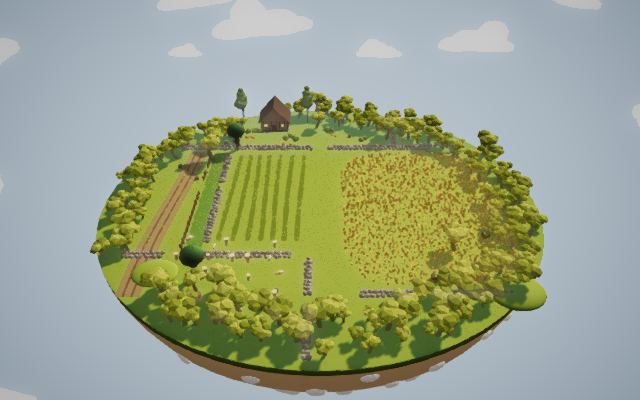
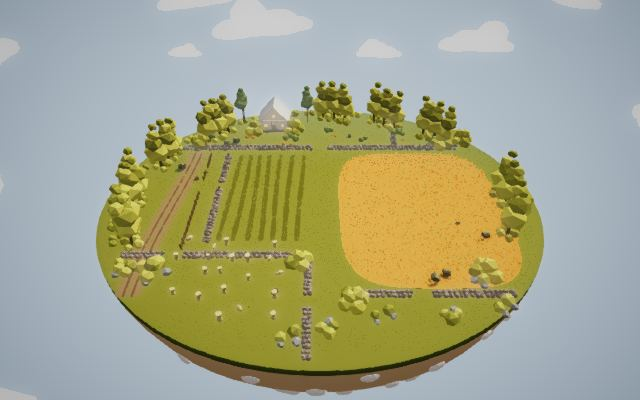
loop(566): maps_1+maps_2 10/10 gaps approved

Changed region(s): [[0.125, 0.18, 0.875, 0.93], [0.4375, 0.6, 0.5, 0.69], [0.375, 0.48, 0.4062, 0.51]]

diff --git a/loop/STATE.md b/loop/STATE.md
@@ -1,5 +1,5 @@
 # Loop state (v10: maps then stages; two batch audits merged; up to 9 structural/rebuild gaps + 1 eligible polish; fresh CONFIRM before done)
-Iteration: 565   Batch: maps_1+maps_2   Consecutive empty: 0   Done: 3/99   Parked: 0
+Iteration: 566   Batch: maps_1+maps_2   Consecutive empty: 0   Done: 4/99   Parked: 0
 Batches, in order: maps_1, maps_2, maps_3, maps_4, stages_introduction, stages_adventure, stages_challenge, stages_dynasty, stages_renaissance, stages_pirate, stages_spooky, stages_simulation, stages_wild_west, stages_legacy, stages_fantasy_good, stages_fantasy_evil
 <!-- Item file template, loop/items/<id>.md (map: map.<id>; stage: <campaign>.<level>):
 # <id>
@@ -16,7 +16,7 @@ c ...
 Marks below: one per criterion a b c (+ pass, - fail, ? unscored); map a look, b layout, c play; stage a army, b formation, c battle. -->
 
 ## Scoreboard (a b c as + pass, - fail, ? unscored; status q queued, o open, D done, p parked)
-maps_1: tribal_1 +++ D | tribal_2 +++ D | tribal_sandbox +-+ o | farmer_1 +++ D | farmer_2 -++ o (a plateau) | farmer_snow -++ o
+maps_1: tribal_1 +++ D | tribal_2 +++ D | tribal_sandbox --+ o | farmer_1 +++ D | farmer_2 +++ D | farmer_snow -++ o
 maps_2: medieval_1 --+ o | medieval_2 --+ o | ancient_1 --+ o | ancient_2 --+ o | ancient_sandbox --+ o | viking --+ o | viking_sandbox --+ o
 maps_3: dynasty ??? q | renaissance ??? q | pirate ??? q | spooky_1 ??? q | spooky_2 ??? q | wild_west ??? q | legacy ??? q
 maps_4: fantasy_good ??? q | fantasy_evil ??? q | simulation ??? q | bridge ??? q | hill ??? q | corridor ??? q | defend_the_castle ??? q | high_ground ??? q | low_ground ??? q
@@ -33,32 +33,56 @@ stages_legacy: siege ??? q | a_tank ??? q | the_war ??? q | thor_s_battle ??? q
 stages_fantasy_good: colossal_spike ??? q | royal_archers ??? q | clash_of_warriors ??? q | chaotic_cavalry ??? q | vicious_terror ??? q | fortified_formation ??? q
 stages_fantasy_evil: encircling_tribe ??? q | raze_the_homestead ??? q | farmer_uprising_evil ??? q | storm_the_fortress ??? q | blasted_skirmish ??? q | dismantle_the_spears ??? q
 
-## Focus (iter 565: maps_1+maps_2, 1 [R] + 7 [S]; BASE 93c67eaf)
-- [S] map.viking_sandbox.b blocker 4 base field dressing + pits removed (6278850c) APPROVE, struck 4
-- [S] map.ancient_sandbox.b blocker 5 base field dressing + pits removed (b149e156) APPROVE, struck 5
-- [S] map.tribal_2.a blocker 3 two-tier ledge wall, ledge birches (e503d93f) APPROVE, struck 3 (PASS; CONFIRM passed -> D)
-- [S] map.farmer_snow.b blocker 2 mill onto the +x bank, wheel in the ice (ca008f0d) APPROVE, struck 2 (b PASS)
-- [S] map.viking.a blocker 1 own builder: ice lake + cracks, snow banks (4d8db327) APPROVE, struck a1, b1
-- [S] map.medieval_2.b blocker 1 own builder: front pond, paths, lagoons/plank out (61b2ec07+4e086afe) APPROVE, struck 1, 2, 3
-- [S] map.ancient_2.a blocker 2 own builder: temple complex (b364ac2a) APPROVE, struck a2, b2
-- [R] map.farmer_2.a blockers 1-4 rim masses, pale cottage, straw wheat, alley (b84ba5a1) APPROVE, struck 1, 2, 4 (CONFIRM passed a; critic kept 3)
-- Skipped: tribal_sandbox.b1 (evidence commit first), medieval_1, ancient_1 (starve at 567: take them first in 566)
-- 8/8, 14 struck
+## Focus (iter 566: maps_1+maps_2, 9 [S] + 1 [R]; BASE 21a8a59d)
+- Evidence: Tribal Sandbox camera limit and framing (21a8a59d+9704ba46), re-AUDIT x2 reopened a and b.
+- [S] map.medieval_1.b blocker 2 split plateaus, inlet and stone bridge (70777289+20b7df96) APPROVE, struck a2, b1, b2, b3
+- [S] map.ancient_1.b blocker 1 rectangular paved slab, two streets and central arch (29f15c87+fb977c70) APPROVE, struck a1, b1, b3, b5
+- [S] map.tribal_sandbox.b blocker 1 expand island, placement and collision footprint 1.45x (49d2750c) APPROVE, struck b1
+- [R] map.farmer_2.a blocker 3 swept wheat, separated warm heads and stems (1e5f5680+e6c89ac4) APPROVE, struck a3 (a PASS; CONFIRM -> D)
+- [S] map.farmer_snow.a blocker 1 open snow rim with a few corner pines (ae2ad902) APPROVE, struck a1
+- [S] map.medieval_2.a blocker 1 crenellated castle facade, ivy and arched gate (373e0c1c+c3ddcf73) APPROVE, struck a1
+- [S] map.ancient_2.b blocker 5 clear inherited field obstacles and pits (13fa8e2a) APPROVE, struck b5
+- [S] map.viking.b blocker 4 clear inherited obstacles and pits off the lake (1e70afc3) APPROVE, struck b4
+- [S] map.ancient_sandbox.a blocker 1 green meadow with brown clay paths (9358dcce) APPROVE, struck a1
+- [S] map.viking_sandbox.a blocker 4 cyan sky and airborne snow (b2df5dd6) APPROVE, struck a4
+- 10/10, 16 struck
 
 ## Last verdicts (critic header lines verbatim)
-GAP: [S] map.viking_sandbox (6278850c) VERDICT: APPROVE CRITERION: map.viking_sandbox.b FAIL
-GAP: [S] map.ancient_sandbox (b149e156) VERDICT: APPROVE CRITERION: map.ancient_sandbox.b FAIL
-GAP: [S] map.tribal_2 (e503d93f) VERDICT: APPROVE CRITERION: map.tribal_2.a PASS
-GAP: [S] map.farmer_snow (ca008f0d) VERDICT: APPROVE CRITERION: map.farmer_snow.b PASS
-GAP: [S] map.viking (4d8db327) VERDICT: APPROVE CRITERION: map.viking.a FAIL
-GAP: [S] map.medieval_2 (61b2ec07 + 4e086afe) VERDICT: APPROVE CRITERION: map.medieval_2.b FAIL
-GAP: [S] map.ancient_2 (b364ac2a) VERDICT: APPROVE CRITERION: map.ancient_2.a FAIL
-GAP: [R] map.farmer_2 (b84ba5a1) VERDICT: APPROVE CRITERION: map.farmer_2.a FAIL plateau
-REGRESSIONS: none
+GAP: [S] map.medieval_1 (70777289 + 20b7df96)
+VERDICT: APPROVE
+CRITERION: map.medieval_1.b FAIL (previous: FAIL)
+GAP: [S] map.ancient_1 (29f15c87 + fb977c70)
+VERDICT: APPROVE
+CRITERION: map.ancient_1.b FAIL (previous: FAIL)
+GAP: [S] map.tribal_sandbox (49d2750c)
+VERDICT: APPROVE
+CRITERION: map.tribal_sandbox.b FAIL (previous: FAIL)
+GAP: [R] map.farmer_2 (1e5f5680 + e6c89ac4)
+VERDICT: APPROVE
+CRITERION: map.farmer_2.a PASS (previous: FAIL)
+GAP: [S] map.farmer_snow (ae2ad902)
+VERDICT: APPROVE
+CRITERION: map.farmer_snow.a FAIL (previous: FAIL)
+GAP: [S] map.medieval_2 (373e0c1c + c3ddcf73)
+VERDICT: APPROVE
+CRITERION: map.medieval_2.a FAIL (previous: FAIL)
+GAP: [S] map.ancient_2 (13fa8e2a)
+VERDICT: APPROVE
+CRITERION: map.ancient_2.b FAIL (previous: FAIL)
+GAP: [S] map.viking (1e70afc3)
+VERDICT: APPROVE
+CRITERION: map.viking.b FAIL (previous: FAIL)
+GAP: [S] map.ancient_sandbox (9358dcce)
+VERDICT: APPROVE
+CRITERION: map.ancient_sandbox.a FAIL (previous: FAIL)
+GAP: [S] map.viking_sandbox (b2df5dd6)
+VERDICT: APPROVE
+CRITERION: map.viking_sandbox.a FAIL (previous: FAIL)
+REGRESSIONS: none. Judge passes c for all 10 maps and a/c for all 26 stages.
 
 ## Notes for next iteration (max 5 lines)
-- Starving at 567: medieval_1 (a, b) and ancient_1 (a, b) have no attempt since their 562 audit: give them own builders first in 566 (base campaign.introduction / campaign.challenge; never edit bases).
-- [R] slot: farmer_2.a, one blocker left (wheat colour): lower the self-light (<= 0.15) at a warm gold-orange; CONFIRM 565 already passed a.
-- tribal_sandbox.b1 needs an evidence commit first: cameraController upperRadiusLimit 120 clamps the top (135) and island (200) poses; lift it in capture-world.mjs for that map's shots only.
-- The challenge-base junk clear (wallStone, boulder, hayBale, hill, stump, pits) is ranked for viking.b4 and ancient_2.b5: copy viking_sandbox's clearFieldDressing.
+- Medieval 1 and Ancient 1 had their first layout attempts. Prioritize their appearance gaps (stepped cliffs and white city frontage).
+- Tribal Sandbox's enlarged footprint cleared b1. Re-audit a1/a2 and b2 remain on the rock stacks, crowns and regular back wall.
+- Farmer 2 confirmed and map-picker thumbnail refreshed. Both map batches still have open items.
+- 566 final capture: 118 shots, zero page errors, 10 map c and 52 stage a/c checks passed. Local commits ready; automatic approval review blocked the push to origin/main because external publication authorization and destination trust were unverified.
 - Critic 562 aside still open: stage_fantasy_evil.raze_the_homestead_field.png pale grey rectangle behind the island; check at the maps_1 checkpoint.

diff --git a/loop/items/map.medieval_1.md b/loop/items/map.medieval_1.md
@@ -1,14 +1,17 @@
 # map.medieval_1
 Status: open   Audited: 562 (AUDIT x2)   Done: -
 ## Verdicts
-a FAIL (0 since 562): 1. Island underside in map_medieval_1_island is a navy slab hung with black stalactites — TABS: grey-lilac faceted cliff columns with green ledges dropping into the sea (ref: reference/maps/meadow_medieval_1.png) 2. Sea around the island absent in map_medieval_1_island — TABS: island stands in turquoise shallow water (ref: reference/maps/meadow_medieval_1.png) 3. Ring trees in map_medieval_1_ground are uniform small dark-green crowns on pink trunks — TABS: big gnarled oaks with twisted brown trunks and lumpy pale-green crowns (ref: reference/maps/wiki/medieval_1.png) 4. Castle ruins in map_medieval_1_top are one small pinkish block at back-right — TABS: grey stone ruined walls, crenellated segments and a broken pillar-tower with orange cap along the right side (ref: reference/maps/wiki/medieval_1.png) 5. Black monolith with a ball on top in mid-field in map_medieval_1_ground — TABS: no such object; the field holds only grass and flowers (ref: reference/maps/wiki/medieval_1.png) 6. Field dressing in map_medieval_1_ground is flat yellow-olive grass — TABS: lush bushy green grass with orange flower dots (ref: reference/maps/wiki/medieval_1.png)
-b FAIL (0 since 562): 1. Island outline in map_medieval_1_top is one rounded oval — TABS: two cliff plateaus split by a water inlet (ref: reference/maps/meadow_medieval_1.png) 2. Water gorge between the halves absent in map_medieval_1_top — TABS: turquoise inlet cutting into the front of the island between forest and ruins (ref: reference/maps/wiki/medieval_1.png) 3. Bridge linking the two sides absent in map_medieval_1_top — TABS: stone bridge over the gorge (ref: card Overview) 4. Tree ring in map_medieval_1_top is symmetric on both halves — TABS: forest massed on the left half, ruins on the right (ref: card Overview) 5. Ramp down the left side to the door under the bridge absent in map_medieval_1_island — TABS: ramp to the landfall door (ref: card Unlock)
-c PASS (562 judge)
+a FAIL (566: struck 2): 1. Island underside in map_medieval_1_island is a navy slab hung with black stalactites — TABS: grey-lilac faceted cliff columns with green ledges dropping into the sea (ref: reference/maps/meadow_medieval_1.png) 3. Ring trees in map_medieval_1_ground are uniform small dark-green crowns on pink trunks — TABS: big gnarled oaks with twisted brown trunks and lumpy pale-green crowns (ref: reference/maps/wiki/medieval_1.png) 4. Castle ruins in map_medieval_1_top are one small pinkish block at back-right — TABS: grey stone ruined walls, crenellated segments and a broken pillar-tower with orange cap along the right side (ref: reference/maps/wiki/medieval_1.png) 5. Black monolith with a ball on top in mid-field in map_medieval_1_ground — TABS: no such object; the field holds only grass and flowers (ref: reference/maps/wiki/medieval_1.png) 6. Field dressing in map_medieval_1_ground is flat yellow-olive grass — TABS: lush bushy green grass with orange flower dots (ref: reference/maps/wiki/medieval_1.png)
+b FAIL (566: struck 1, 2, 3): 4. Tree ring in map_medieval_1_top is symmetric on both halves — TABS: forest massed on the left half, ruins on the right (ref: card Overview) 5. Ramp down the left side to the door under the bridge absent in map_medieval_1_island — TABS: ramp to the landfall door (ref: card Unlock)
+c PASS (566 judge)
+
 ## Ranked gaps
-1. [S] b — blocker 2: own builder tabs/medieval_1.ts (base campaign.introduction): two cliff plateaus split by a turquoise water gorge, stone bridge across it — ref: meadow_medieval_1.png — ours: map_medieval_1_top.png
+1. [S] a — blocker 1: faceted grey-lilac towers and turf shelves — ref: meadow_medieval_1.png — ours: map_medieval_1_island.png
 2. [S] a — blocker 4: grey ruined walls and a broken pillar-tower with orange cap on the right half, black monolith removed — ref: reference/stages/wild_west.laughing_knights.png
-3. [S] a — blocker 2: sea plane round the island and the front inlet under the bridge — ref: meadow_medieval_1.png
+
 ## Attempts (iter | gap | criterion | verdict)
 ## Rejected (last 4)
+566 | [S] split plateaus, inlet and stone bridge (70777289+20b7df96) | b2 | APPROVE struck a2, b1, b2, b3
+
 ## Notes (max 3 lines)
 - Stages on it: dynasty.catapults, pirate.you_won_t_make_us_walk_the_plank, spooky.turtle, wild_west.laughing_knights, fantasy_good.royal_archers.

diff --git a/loop/items/map.ancient_1.md b/loop/items/map.ancient_1.md
@@ -1,13 +1,16 @@
 # map.ancient_1
 Status: open   Audited: 562 (AUDIT x2)   Done: -
 ## Verdicts
-a FAIL (0 since 562): 1. Ground in map_ancient_1_ground is orange autumn grass — TABS: grey paved streets with white seam lines (ref: reference/maps/wiki/ancient_1.png) 2. Whitewashed houses with blue domes absent in map_ancient_1_top — TABS: flat-roof white buildings with blue domes, stairs and planters (ref: reference/maps/wiki/ancient_1.png) 3. Ring in map_ancient_1_top is autumn round trees with dark rocks — TABS: low white city wall with cypress planters (ref: reference/maps/wiki/ancient_1.png) 4. Island underside in map_ancient_1_island is a navy slab with stalactites — TABS: brown rock slab studded with pebbles (ref: reference/maps/greek_ancient_1.png) 5. Hoplite statue on its rock outcrop absent in map_ancient_1_island — TABS: giant spear-and-shield statue at the back (ref: reference/maps/greek_ancient_1.png) 6. Lighthouse absent in map_ancient_1_island — TABS: white tower at the back-left (ref: reference/maps/greek_ancient_1.png)
-b FAIL (0 since 562): 1. Island outline in map_ancient_1_top is a rounded oval — TABS: long rectangle (ref: card Overview) 2. Two narrow streets between building blocks absent in map_ancient_1_top — TABS: two streets 3-4 units wide link the sides (ref: card Overview) 3. Central archway absent in map_ancient_1_top — TABS: archway in the middle of the map (ref: reference/maps/greek_ancient_1.png) 4. Water bay at the statue corner absent in map_ancient_1_top — TABS: blue inlet with rocks at the back-left (ref: reference/maps/wiki/ancient_1.png) 5. Black slabs and a black monolith in the open field in map_ancient_1_battle — TABS: field space is streets between buildings (ref: reference/stages/dynasty.zeus_and_other_folks.png)
-c PASS (562 judge)
+a FAIL (566: struck 1): 2. Whitewashed houses with blue domes absent in map_ancient_1_top — TABS: flat-roof white buildings with blue domes, stairs and planters (ref: reference/maps/wiki/ancient_1.png) 3. Ring in map_ancient_1_top is autumn round trees with dark rocks — TABS: low white city wall with cypress planters (ref: reference/maps/wiki/ancient_1.png) 4. Island underside in map_ancient_1_island is a navy slab with stalactites — TABS: brown rock slab studded with pebbles (ref: reference/maps/greek_ancient_1.png) 5. Hoplite statue on its rock outcrop absent in map_ancient_1_island — TABS: giant spear-and-shield statue at the back (ref: reference/maps/greek_ancient_1.png) 6. Lighthouse absent in map_ancient_1_island — TABS: white tower at the back-left (ref: reference/maps/greek_ancient_1.png)
+b FAIL (566: struck 1, 3, 5): 2. Two narrow streets between building blocks absent in map_ancient_1_top — TABS: two streets 3-4 units wide link the sides (ref: card Overview) 4. Water bay at the statue corner absent in map_ancient_1_top — TABS: blue inlet with rocks at the back-left (ref: reference/maps/wiki/ancient_1.png)
+c PASS (566 judge)
+
 ## Ranked gaps
-1. [S] b — blocker 1: own builder tabs/ancient_1.ts (base campaign.challenge, shared by 5 maps: never edit it): rectangular grey-paved slab, two narrow streets between building blocks, central archway — ref: wiki/ancient_1.png
-2. [S] a — blocker 2: whitewashed flat-roof houses with blue domes and rooftop stairs on the street blocks (keep the stage armies' spots clear)
+1. [S] a — blocker 2: whitewashed houses, blue domes and rooftop stairs on the marked lots — ref: wiki/ancient_1.png — ours: map_ancient_1_top.png
+
 ## Attempts (iter | gap | criterion | verdict)
 ## Rejected (last 4)
+566 | [S] rectangular paved slab, two streets and central arch (29f15c87+fb977c70) | b1 | APPROVE struck a1, b1, b3, b5
+
 ## Notes (max 3 lines)
 - Stages on it: introduction.basic_formation, adventure.final_destination_wheelbarrow, dynasty.zeus_and_other_folks, fantasy_evil.blasted_skirmish. Audit 2 also: sky beige haze (want saturated blue).

diff --git a/loop/LEDGER.md b/loop/LEDGER.md
@@ -3,15 +3,6 @@
 Rows: `file:identifier | value | last iter | verdict | earlier values`. P: no approved reversal within 20 iterations; two failed polish attempts spend a row. S/R replace mechanisms. The unit phase's ledger is `loop/archive/v4/LEDGER.md`.
 
 ## Structural attempts (iter | sha | item.criterion | verdict)
-560 | cb6fa15d | map.tribal_1.a | approved
-560 | 57c3a0af | map.tribal_1.b | approved
-560 | f66ba3a2+8c0b9641+8a89fc24 | map.tribal_1.b | approved
-560 | 8105869f | map.farmer_1.a | approved
-560 | 22e0ba71+ba8232f8 | map.farmer_1.b | approved
-560 | d6119113 | map.farmer_1.a | approved
-560 | 90fc230f | map.farmer_2.a | approved
-560 | 7713f41b | map.farmer_2.b | approved
-560 | 674aaca3+5a6c6bb4 | map.farmer_2.a | approved
 561 | 037cd776+4b5e0fae | map.farmer_2.a | approved
 561 | b382569f+ceafd4a0+0792aa93 | map.farmer_2.a | approved
 561 | 5f83a159 | map.farmer_1.a | approved
@@ -54,6 +45,17 @@ Rows: `file:identifier | value | last iter | verdict | earlier values`. P: no ap
 565 | b364ac2a | map.ancient_2.a | approved
 565 | b84ba5a1 [R] | map.farmer_2.a | approved (CONFIRM passed a; critic kept blocker 3)
 
+566 | 70777289+20b7df96 | map.medieval_1.b | approved
+566 | 29f15c87+fb977c70 | map.ancient_1.b | approved
+566 | 49d2750c | map.tribal_sandbox.b | approved
+566 | 1e5f5680+e6c89ac4 [R] | map.farmer_2.a | approved (CONFIRM passed)
+566 | ae2ad902 | map.farmer_snow.a | approved
+566 | 373e0c1c+c3ddcf73 | map.medieval_2.a | approved
+566 | 13fa8e2a | map.ancient_2.b | approved
+566 | 1e70afc3 | map.viking.b | approved
+566 | 9358dcce | map.ancient_sandbox.a | approved
+566 | b2df5dd6 | map.viking_sandbox.a | approved
+
 ## Tuned values
 web/src/map/tabs/farmer_2.ts:wheatField stalk height, step | 0.65-0.8 m, 0.75 m | 564 | approved | 0.5-0.7 m, 0.9 m; 1.0-1.3 m
 web/src/map/tabs/farmer_2.ts:SHEAVES z range, scale | z -36..-16, x1.5 | 558 | approved | z -44..-23, x1
@@ -70,6 +72,8 @@ web/src/map/tabs/farmer_1.ts:farmer1BankRock colour | (0.6,0.53,0.44) emissive (
 web/src/map/tabs/farmer_2.ts:farmer2UnderEarth colour | (0.5,0.4,0.27) self-lit 1.0 | 561 | approved | (0.44,0.36,0.25) self-lit 0.45
 web/src/map/tabs/farmer_2.ts:farmer2OliveLeaf / Dark | (0.62,0.56,0.19) x0.6, (0.5,0.46,0.15) x0.55 (oliveGrove) | 563 | approved | (0.5,0.47,0.16) x0.6, (0.4,0.39,0.12) x0.55; (0.45,0.42,0.14) x0.25
 web/src/map/tabs/farmer_2.ts:MEADOW | (0.6,0.54,0.18) | 563 | approved | (0.62,0.64,0.2)
-web/src/map/tabs/farmer_2.ts:farmer2Wheat colour | (1,0.8,0.3) self-lit 0.35 + straw floor (0.92,0.72,0.3) x0.3 | 565 | approved (critic: cream from above, khaki at ground) | (0.9,0.66,0.2) self-lit 0.3 (CONFIRM: dull ochre); (0.95,0.8,0.32) self-lit 0.4 (CONFIRM: too pale); (0.78,0.55,0.16) emissive (0.26,0.17,0.04)
+web/src/map/tabs/farmer_2.ts:farmer2Wheat colour | unlit heads (1.1,0.67,0.23), stems (0.88,0.51,0.14), out of glow; floor (0.94,0.58,0.17) x0.145 | 566 | approved | (1,0.8,0.3) self-lit 0.35 + straw floor (0.92,0.72,0.3) x0.3; (0.9,0.66,0.2) self-lit 0.3 (CONFIRM: dull ochre); (0.95,0.8,0.32) self-lit 0.4 (CONFIRM: too pale); (0.78,0.55,0.16) emissive (0.26,0.17,0.04)
 web/src/map/tabs/farmer_2.ts:farmer2HousePlank / Frame / Roof | (0.88,0.74,0.52) x0.32, (0.56,0.43,0.28) x0.25, (0.74,0.65,0.5) x0.3 | 565 | approved | (0.6,0.44,0.26) x0.18, (0.26,0.15,0.08) x0.15, (0.36,0.23,0.13) x0.15
 web/src/map/tabs/tribal_2.ts:tribal2Mountain colour | (0.6,0.5,0.4) emissive (0.1,0.075,0.05) | 564 | approved | (0.6,0.54,0.52) emissive (0.08,0.06,0.05)
+web/src/map/tabs/tribal_sandbox.ts:spread | 1.45x horizontal geometry/nav/collisions | 566 | approved | 1x
+web/src/map/tabs/viking_sandbox.ts:clearColor and fogColor | cyan (0.52,0.78,0.83) and (0.62,0.82,0.86) | 566 | approved | inherited beige (0.74,0.68,0.52)

diff --git a/loop/items/map.farmer_snow.md b/loop/items/map.farmer_snow.md
@@ -1,19 +1,22 @@
 # map.farmer_snow
 Status: open   Audited: 555 (AUDIT x2), 563 (CONFIRM: passed none; failed a, b)   Done: -
 ## Verdicts
-a FAIL (564: struck 6): 1. A closed ring of pale fog-washed broadleaf trees round the whole rim in map_farmer_snow_top.png — TABS: open snow edge with only a few tall snow-capped trees at the corners (ref: reference/maps/wiki/farmer_snow.png) 2. Watermill shown as two brown gabled barns with string lights in map_farmer_snow_island.png — TABS: tall dark-blue timber mill towers with a water wheel and a balcony on one bank (ref: reference/maps/wiki/farmer_snow.png) 3. Large snow-capped boulder in the front field missing in map_farmer_snow_top.png — TABS: a big faceted rock with snow cap on the field's front-right (ref: reference/maps/wiki/farmer_snow.png) 4. Snow-covered crop furrows by the bridge missing in map_farmer_snow_top.png — TABS: rows of snowy furrow ridges beside the bridge on the field side (ref: reference/maps/wiki/farmer_snow.png) 5. Snowy wooden carts and wagons missing in map_farmer_snow_ground.png — TABS: two snow-laden carts and log piles on the near field (ref: reference/maps/wiki/farmer_snow.png)
+a FAIL (566: struck 1): 2. Watermill shown as two brown gabled barns with string lights in map_farmer_snow_island.png — TABS: tall dark-blue timber mill towers with a water wheel and a balcony on one bank (ref: reference/maps/wiki/farmer_snow.png) 3. Large snow-capped boulder in the front field missing in map_farmer_snow_top.png — TABS: a big faceted rock with snow cap on the field's front-right (ref: reference/maps/wiki/farmer_snow.png) 4. Snow-covered crop furrows by the bridge missing in map_farmer_snow_top.png — TABS: rows of snowy furrow ridges beside the bridge on the field side (ref: reference/maps/wiki/farmer_snow.png) 5. Snowy wooden carts and wagons missing in map_farmer_snow_ground.png — TABS: two snow-laden carts and log piles on the near field (ref: reference/maps/wiki/farmer_snow.png)
 b PASS (565: struck 2; critic only, CONFIRM it when the item would be done)
-c PASS (565 judge)
+c PASS (566 judge)
+
 ## Ranked gaps
-1. [S] a — blocker 1: ring trees hidden all round the rim but three or four tall snowy trees at the corners (the round snow edge left open)
-2. [S] a — blocker 2: mill halves rebuilt as tall dark-blue timber towers with snowy plank roofs, a balcony, the wheel kept (MILL_HALVES on the +x bank)
-3. [S] a — blocker 3: big faceted snow-capped boulder on the front-right field
+1. [S] a — blocker 2: two dark-blue timber towers, balcony and visible wheel — ref: wiki/farmer_snow.png — ours: map_farmer_snow_island.png
+2. [S] a — blocker 3: big faceted snow-capped boulder on the front-right field
+
 ## Attempts (iter | gap | criterion | verdict)
 555-559 | river, snow cover, bridge, night sky, grove, navy bowl, stones | a, b | 6 APPROVE, struck a1, a2, a6, b1, b2, b4, b6
 561-562 | [S] houses + mill, round outline, bulb strings, dark mill (cb41584c, e9d95cfa, d7b02859, 23817396+452f35d3) | a, b | 4 APPROVE struck b5, b3, a3, a4
 563 | [S] snow hills at their radius (e6641d5a); dense pine grove (5ac61480) | b6, a5 | 2 APPROVE struck b6, a5
 564 | [S] base slab + totem removed (79991c9b); pine grove to the houses' bank (140782a1) | a6, b1 | 2 APPROVE struck a6, b1
 565 | [S] mill off the river onto the +x bank, halves in a row along the ice, wheel in the ice (ca008f0d) | b2 | APPROVE struck 2 (b PASS)
+566 | [S] open snow rim with a few corner pines (ae2ad902) | a1 | APPROVE struck a1
+
 ## Rejected (last 4)
 ## Notes (max 3 lines)
 - No stages. Builder: ice course, bridge, houses (-26,36),(-11,39), mill halves at x ~8 z -41 / -28.2 with the wheel at z -34.6, lights, pineGrove.

diff --git a/loop/items/map.tribal_sandbox.md b/loop/items/map.tribal_sandbox.md
@@ -1,18 +1,24 @@
 # map.tribal_sandbox
-Status: open   Audited: 555 (AUDIT x2)   Done: -
+Status: open   Audited: 555 (AUDIT x2), 566 (camera re-AUDIT x2)   Done: -
 ## Verdicts
-a PASS (562: struck 5)
-b FAIL (563: struck 2): 1. field size in map_tribal_sandbox_top.png — TABS: a large map, much bigger than Tribal 1/2, with an open centre for large armies; ours is the same small oval as tribal_1 (ref: loop/cards/maps/tribal_sandbox.md Overview; reference/maps/autumn_tribal_sandbox.png)
-c PASS (563 judge)
+a FAIL (0 since 566): 1. Flat-topped grey stacks at centre and right in map_tribal_sandbox_ground.png — TABS: broad, irregular fractured boulder masses and tilted slabs beneath the trees (ref: reference/maps/wiki/tribal_sandbox.png) 2. Small dark faceted crowns on tall bare stalks above the central rock groups in map_tribal_sandbox_ground.png — TABS: large pumpkin-orange, pale yellow and warm red crowns overlapping the rock shelves at several heights (ref: reference/maps/autumn_tribal_sandbox.png)
+b FAIL (566: struck 1): 2. Back rim in map_tribal_sandbox_top.png forms a nearly continuous regular stone wall — TABS: broken, staggered rock masses with gaps occupied by groves (ref: reference/maps/wiki/tribal_sandbox.png)
+c PASS (566 judge)
+
 ## Ranked gaps
-1. [S] b — blocker 1: grow the island rim, field and zones ~1.4-1.5x and move the ring, nooks, mesas and cliffs out with it. Evidence first: the top pose (radius 135, beta 0.72) and island pose (clamped 120) frame about +-70 m, and nav bounds come from the zones; re-aim the poses in an evidence commit before the geometry
+1. [S] b — blocker 2: staggered cliff masses with tree-filled openings — ref: wiki/tribal_sandbox.png — ours: map_tribal_sandbox_top.png
+2. [S] a — blocker 1: replace the flat rock stacks with staggered faceted boulders and tilted slabs — ref: wiki/tribal_sandbox.png — ours: map_tribal_sandbox_ground.png
+3. [S] a — blocker 2: cluster orange, red and yellow crowns at several heights over the shelves — ref: autumn_tribal_sandbox.png — ours: map_tribal_sandbox_ground.png
+
 ## Attempts (iter | gap | criterion | verdict)
 555-559 | a: pillar/outcrop/heap, rim cliffs, birch ring, open sky + spires; field walls, boulders | a, b | 6 APPROVE, struck a1-a4, a6, b4
 558-559 | [S]+[P] horseshoe boulder nooks, then 10 m inward (5e406f86, 1f72d189) | b2 | 2 APPROVE (stands)
 561-562 | [S]+[P] red shrubs, then x2.5; rim mesas (6142c5b2, 61d4fb96, 22bf0f3a) | a5, b3 | 3 APPROVE struck a5, b3
 563 | [S] nooks rebuilt as stacked flat-topped cliff blocks, birches on their tops (74f9cb20) | b2 | APPROVE struck 2
+566 | [S] expand island, placement and collision footprint 1.45x (49d2750c) | b1 | APPROVE struck b1
+
 ## Rejected (last 4)
 ## Notes (max 3 lines)
-- No stages fought on it. Critic 563: birches on the blocks are bare-trunk lollipops; blocks 4.5-7 m are small next to TABS's 10-15 m masses.
-- 563 skipped blocker 1: a 1.4x scale puts the rim at ~76 m, past the capture frame (see Ranked gaps).
-- a PASS by the critic only: CONFIRM it when the item would be done. Critic 562: mesas are clean hexagonal prisms.
+- No stages fought on it. World geometry, obstacles and placement expand 1.45x in the ground plane.
+- Overview radii are 218 (island) and 176 (top), on this map only; map c passed on expansion.
+- Re-audit reopened a for the stone stacks and sparse crowns and identified the regular back wall as b2.

diff --git a/loop/items/map.ancient_sandbox.md b/loop/items/map.ancient_sandbox.md
@@ -1,18 +1,22 @@
 # map.ancient_sandbox
 Status: open   Audited: 562 (AUDIT x2)   Done: -
 ## Verdicts
-a FAIL (564: struck 5): 1. Ground in map_ancient_sandbox_ground is orange autumn grass — TABS: green meadow with brown dirt paths (ref: reference/maps/wiki/ancient_sandbox.png) 2. Edge dressing in map_ancient_sandbox_top is autumn trees — TABS: cypresses and white Greek houses with blue-tile walls (ref: reference/maps/wiki/ancient_sandbox.png) 3. Spiral mountain absent in map_ancient_sandbox_island — TABS: tall spiral rock tower at the back (ref: reference/maps/greek_ancient_sandbox.png) 6. Ruins absent in map_ancient_sandbox_top — TABS: fallen columns and ruined arches (ref: reference/maps/wiki/ancient_sandbox.png)
+a FAIL (566: struck 1): 2. Edge dressing in map_ancient_sandbox_top is autumn trees — TABS: cypresses and white Greek houses with blue-tile walls (ref: reference/maps/wiki/ancient_sandbox.png) 3. Spiral mountain absent in map_ancient_sandbox_island — TABS: tall spiral rock tower at the back (ref: reference/maps/greek_ancient_sandbox.png) 6. Ruins absent in map_ancient_sandbox_top — TABS: fallen columns and ruined arches (ref: reference/maps/wiki/ancient_sandbox.png)
 b FAIL (565: struck 5): 1. Island outline in map_ancient_sandbox_top is a small rounded rectangle — TABS: very large irregular island with cliff terraces (ref: reference/maps/greek_ancient_sandbox.png) 2. Raised terraces with temples at the back edge absent in map_ancient_sandbox_top — TABS: brown-cliffed hills at the far edge (ref: reference/maps/wiki/ancient_sandbox.png) 3. Spiral mountain on the north centreline absent in map_ancient_sandbox_top — TABS: mountain on the centreline (ref: card Overview) 4. Offshore islets absent in map_ancient_sandbox_island — TABS: small islands in the distance (ref: card Overview)
-c PASS (565 judge)
+c PASS (566 judge)
+
 ## Ranked gaps
-1. [S] a — blocker 1: green meadow ground with brown dirt paths (grass/groundMat/blades recoloured, fieldTufts_* hidden, path ribbons)
+1. [S] a — blocker 2: cypress groves and white Greek houses with blue-tile walls — ref: wiki/ancient_sandbox.png — ours: map_ancient_sandbox_top.png
 2. [S] b — blocker 2: terrace set piece along the back rim: two or three brown cliff steps with green tops, white Greek houses with blue-tile walls and a small temple
 3. [S] a — blocker 3: tall spiral rock tower on the back centre line
+
 ## Attempts (iter | gap | criterion | verdict)
 563 | [S] own builder; navy underside -> ring of faceted terracotta cliff facets + floor (a295aa5a) | a4 | APPROVE struck 4
 564 | [S] base junk (Challenge Bluffs_box/_cyl/_totem_top) removed with colliders (d4443b87) | b5 | APPROVE struck monolith clause
 564 | [S] blue sea disc to the horizon at y -11, shallows + foam rings (288ca462) | a5 | APPROVE struck 5
 565 | [S] base field dressing (wallStone, boulder, hayBale, hill, stump, both pits) removed with colliders and hazards (b149e156) | b5 | APPROVE struck 5
+566 | [S] green meadow with brown clay paths (9358dcce) | a1 | APPROVE struck a1
+
 ## Rejected (last 4)
 ## Notes (max 3 lines)
 - No stages fought on it. Base is campaign.challenge (shared): dress it in tabs/ancient_sandbox.ts only.

diff --git a/loop/items/map.medieval_2.md b/loop/items/map.medieval_2.md
@@ -1,15 +1,19 @@
 # map.medieval_2
 Status: open   Audited: 562 (AUDIT x2)   Done: -
 ## Verdicts
-a FAIL (0 since 562): 1. Castle in map_medieval_2_top is a small grey keep with blue cone spires — TABS: huge vine-covered crenellated wall with blue banners and an arched wooden gate along the back edge (ref: reference/maps/wiki/medieval_2.png) 2. Ring trees in map_medieval_2_ground are pale white-green lollipop trees — TABS: dark-green lumpy oaks with twisted trunks, clustered at the castle and the corners (ref: reference/maps/wiki/medieval_2.png) 3. Island underside in map_medieval_2_island is a navy slab with black stalactites — TABS: rounded grey-brown earthen underside (ref: reference/maps/meadow_medieval_2.png) 4. Ruined red-roof houses absent in map_medieval_2_top — TABS: collapsed red-roof cottages and a fallen tower at the front-right corner (ref: reference/maps/wiki/medieval_2.png) 5. Grass in map_medieval_2_ground is dark olive-brown — TABS: bright yellow-green meadow (ref: reference/maps/wiki/medieval_2.png)
+a FAIL (566: struck 1): 2. Ring trees in map_medieval_2_ground are pale white-green lollipop trees — TABS: dark-green lumpy oaks with twisted trunks, clustered at the castle and the corners (ref: reference/maps/wiki/medieval_2.png) 3. Island underside in map_medieval_2_island is a navy slab with black stalactites — TABS: rounded grey-brown earthen underside (ref: reference/maps/meadow_medieval_2.png) 4. Ruined red-roof houses absent in map_medieval_2_top — TABS: collapsed red-roof cottages and a fallen tower at the front-right corner (ref: reference/maps/wiki/medieval_2.png) 5. Grass in map_medieval_2_ground is dark olive-brown — TABS: bright yellow-green meadow (ref: reference/maps/wiki/medieval_2.png)
 b FAIL (565: struck 1, 2, 3): 4. Team zones in map_medieval_2_top are four pads around the pools — TABS: two halves facing across open meadow (ref: reference/stages/challenge.twin_lords.png)
-c PASS (565 judge)
+c PASS (566 judge)
+
 ## Ranked gaps
-1. [S] a — blocker 1: vine-covered crenellated castle wall with blue banners and an arched gate across the back edge (gate at (-10, 25), where the main path ends) — ref: wiki/medieval_2.png — ours: map_medieval_2_top.png
+1. [S] a — blocker 2: twisted oaks clustered around the castle and corners — ref: wiki/medieval_2.png — ours: map_medieval_2_ground.png
 2. [S] b — blocker 4: one placementZone per team (merge each side's two pads into one half, clear of the pond z <= -30); keep stage spots (x 28..37, z -26..-6) inside
 3. [S] a — blocker 5: bright yellow-green meadow (grass/groundMat/blades recoloured)
+
 ## Attempts (iter | gap | criterion | verdict)
 565 | [S] own builder; lagoons + plank out, one front pond (-6, -39) with 3 water circles, pink path network to the gate; pond ground cleared (61b2ec07+4e086afe) | b1 | APPROVE struck 1, 2, 3
+566 | [S] crenellated castle facade, ivy and arched gate (373e0c1c+c3ddcf73) | a1 | APPROVE struck a1
+
 ## Rejected (last 4)
 ## Notes (max 3 lines)
 - Stages on it: challenge.knights_and_priests, challenge.twin_lords, fantasy_evil.storm_the_fortress. Base is campaign.adventure (regression scenarios): never edit it.

diff --git a/loop/items/map.ancient_2.md b/loop/items/map.ancient_2.md
@@ -2,14 +2,18 @@
 Status: open   Audited: 562 (AUDIT x2)   Done: -
 ## Verdicts
 a FAIL (565: struck 2): 1. Ground in map_ancient_2_ground is orange autumn grass — TABS: bright green lawn with pink and purple flower specks (ref: reference/maps/wiki/ancient_2.png) 3. Ring in map_ancient_2_top is autumn trees — TABS: low beige stone ring wall (ref: reference/maps/wiki/ancient_2.png) 4. Island underside in map_ancient_2_island is a navy slab with stalactites — TABS: round brown earth drum set with grey stones (ref: reference/maps/greek_ancient_2.png) 5. Small beige gate pavilions with cypresses at the wall absent in map_ancient_2_top — TABS: pavilions at left, front and right (ref: reference/maps/wiki/ancient_2.png)
-b FAIL (565: struck 2): 1. Island outline in map_ancient_2_top is a rounded rectangle — TABS: circular disc (ref: reference/maps/wiki/ancient_2.png) 3. Crossing paths absent in map_ancient_2_top — TABS: beige X-shaped paths across the field (ref: reference/maps/wiki/ancient_2.png) 4. Front gate pavilion on the centre line absent in map_ancient_2_island — TABS: columned gate at the front wall (ref: reference/maps/greek_ancient_2.png) 5. Black slabs and monolith in mid-field in map_ancient_2_battle — TABS: open green field (ref: reference/stages/challenge.zeus.png)
-c PASS (565 judge)
+b FAIL (566: struck 5): 1. Island outline in map_ancient_2_top is a rounded rectangle — TABS: circular disc (ref: reference/maps/wiki/ancient_2.png) 3. Crossing paths absent in map_ancient_2_top — TABS: beige X-shaped paths across the field (ref: reference/maps/wiki/ancient_2.png) 4. Front gate pavilion on the centre line absent in map_ancient_2_island — TABS: columned gate at the front wall (ref: reference/maps/greek_ancient_2.png)
+c PASS (566 judge)
+
 ## Ranked gaps
-1. [S] a — blocker 1: bright green lawn (ground/grass/blades recoloured, autumn tufts hidden) with pink and purple flower specks
-2. [S] b — blocker 5: base field dressing removed with colliders and hazards (Challenge Bluffs_box/_cyl/_totem_top, wallStone, boulder, hayBale, hill, stump, pits), as viking_sandbox 565.1
+1. [S] b — blocker 3: beige X paths across the open field — ref: wiki/ancient_2.png — ours: map_ancient_2_top.png
+2. [S] a — blocker 1: bright green lawn (ground/grass/blades recoloured, autumn tufts hidden) with pink and purple flower specks
 3. [S] a — blocker 3: low beige stone ring wall round the rim in place of the autumn trees
+
 ## Attempts (iter | gap | criterion | verdict)
 565 | [S] own builder; three moss-topped terraces z 24/30/36, pedimented temples, central stair, crowning temple, two statues (b364ac2a) | a2 | APPROVE struck a2, b2
+566 | [S] clear inherited field obstacles and pits (13fa8e2a) | b5 | APPROVE struck b5
+
 ## Rejected (last 4)
 ## Notes (max 3 lines)
 - Stages on it: challenge.zeus, renaissance.renaissance_vs_ancient_2 (team 1 at x 29..37, |z| <= 18; the complex starts at z 24).

diff --git a/loop/items/map.farmer_2.md b/loop/items/map.farmer_2.md
@@ -1,19 +1,22 @@
 # map.farmer_2
-Status: open   Audited: 555 (AUDIT x2), 560 (CONFIRM: passed b; failed a), 561 (CONFIRM: failed a), 563 (CONFIRM: failed a), 564 (CONFIRM: failed a), 565 (CONFIRM: passed a; critic failed a)   Done: -
+Status: done   Audited: 555 (AUDIT x2), 560 (CONFIRM: passed b; failed a), 561 (CONFIRM: failed a), 563 (CONFIRM: failed a), 564 (CONFIRM: failed a), 565 (CONFIRM: passed a; critic failed a), 566 (CONFIRM: passed a, b)   Done: 566
 ## Verdicts
-a FAIL plateau (565: struck 1, 2, 4): 3. wheat field in map_farmer_2_top and map_farmer_2_ground is a dull brown-ochre, speckled dark from above — TABS: the wheat is a bright pale straw-gold, the lightest and warmest surface on the map (ref: reference/maps/wiki/farmer_2.png; reference/stages/adventure.the_tiniest_attack.png)
+a PASS (566: struck 3; CONFIRM 566)
 b PASS (560: struck 4; CONFIRM 560)
-c PASS (565 judge)
+c PASS (566 judge)
+
 ## Ranked gaps
-1. [R] a — blocker 3: wheatField re-spec from the wiki's sampled wheat, warm gold-orange about (0.93, 0.68, 0.3) with self-light <= 0.15 (fog and glow bleached 565's (1, 0.8, 0.3) x0.35 to cream from above, khaki at ground), the straw floor one step darker than the stalks
+
+
 ## Attempts (iter | gap | criterion | verdict)
 555-559 | a: wheat, sheaves, olive meadow + furrows; b: walls, path, fence, alley | a, b | 11 APPROVE
 560-561 | [S] farmhouse + pines, round island, stone walls, earth bowl, olive crowns + lumps | a, b | 5 APPROVE struck a1, a2, a3, a5, b4
 563 | [R] khaki meadow, pale wheat, oak wall -> stacked-crown olives + bush clumps (115b231d) | a1-4 | APPROVE struck 1, 2, 4
 564 | [R] tree groups of 2-3 with 4-block crowns over bush masses, hedge, 6 cottage-high heaps, warmer taller wheat (8992d360) | a1-3 | APPROVE (critic PASS a); CONFIRM failed a
 565 | [R] rim discs -> bush+boulder masses, pale tan cottage, straw-gold wheat on a straw floor, alley strip gone (b84ba5a1) | a1-4 | APPROVE struck 1, 2, 4; CONFIRM passed a
+566 | [R] swept wheat, separated warm heads and stems (1e5f5680+e6c89ac4) | a3 | APPROVE struck a3; CONFIRM a, b -> D
+
 ## Rejected (last 4)
 ## Notes (max 3 lines)
-- Team 1 armies stand in x 2..41, z -26..18 (inside the wheat). Ring: farmer2OliveCrowns/Dark, OliveTrunks (oliveGrove, GROVE_SITES, BUSH_HEAPS).
-- Wheat colour history (LEDGER): 562 orange, 563 (0.95,0.8,0.32) too pale, 564 (0.9,0.66,0.2) ochre, 565 (1,0.8,0.3) x0.35 cream. Lower the self-light, not the hue.
-- 565: CONFIRM passed a, the gap critic kept blocker 3: one blocker left; striking it sends a to CONFIRM.
+- Team 1 armies stand in x 2..41, z -26..18. All three campaign stages passed army and battle checks in 566.
+- Wheat stem and head meshes share instance transforms, with separate unlit colours and glow exclusion.

diff --git a/loop/items/map.viking.md b/loop/items/map.viking.md
@@ -2,14 +2,17 @@
 Status: open   Audited: 562 (AUDIT x2)   Done: -
 ## Verdicts
 a FAIL (565: struck 1): 2. Trees in map_viking_ground are autumn round crowns — TABS: snow-laden pines, white with teal bands (ref: reference/maps/winter_viking.png) 3. Sky in map_viking_ground is warm beige haze — TABS: pale cyan fog with falling snow (ref: reference/maps/wiki/viking.png) 4. Frozen ship absent in map_viking_island — TABS: ship locked in the ice on the left (ref: card Overview) 5. Island underside in map_viking_island is a navy slab with stalactites — TABS: icy white-blue rounded underside (ref: reference/maps/winter_viking.png) 6. Frozen waterfall absent in map_viking_island — TABS: waterfall at the top of the map (ref: card Overview)
-b FAIL (565: struck 1): 2. Snowbanks with pine forest on the sides absent in map_viking_top — TABS: raised snowy shore with pines (ref: reference/stages/introduction.ice_archers_only_almost.png) 3. Ship position on the left absent in map_viking_top — TABS: ship on the left side (ref: card Overview) 4. Black slabs and monolith in mid-field in map_viking_battle — TABS: open ice (ref: reference/stages/spooky.breakout.png)
-c PASS (565 judge)
+b FAIL (566: struck 4): 2. Snowbanks with pine forest on the sides absent in map_viking_top — TABS: raised snowy shore with pines (ref: reference/stages/introduction.ice_archers_only_almost.png) 3. Ship position on the left absent in map_viking_top — TABS: ship on the left side (ref: card Overview)
+c PASS (566 judge)
+
 ## Ranked gaps
-1. [S] a — blocker 2: base ring trees replaced by snow-laden low-poly pines (white cones with teal bands) on the snow banks
-2. [S] b — blocker 4: base field dressing off the lake with colliders and hazards (wallStone, boulder, hayBale, hill, stump, Challenge Bluffs_box/_cyl/_totem_top, pits), as viking_sandbox 565.1
-3. [S] a — blocker 3: pale cyan fog and sky with falling snow (save and restore in dispose)
+1. [S] a — blocker 2: layered teal and white pines on snowbanks — ref: winter_viking.png — ours: map_viking_ground.png
+2. [S] a — blocker 3: pale cyan fog and sky with falling snow (save and restore in dispose)
+
 ## Attempts (iter | gap | criterion | verdict)
 565 | [S] own builder; mid-blue ice lake 44 x 38 with a white crack network, snow banks (4d8db327) | a1 | APPROVE struck a1, b1
+566 | [S] clear inherited obstacles and pits off the lake (1e70afc3) | b4 | APPROVE struck b4
+
 ## Rejected (last 4)
 ## Notes (max 3 lines)
 - Stages on it (8): introduction.ice_archers_only_almost, introduction.longships, challenge.ice_archer_and_friends, challenge.big_brawl, dynasty.viking_army, spooky.breakout, fantasy_good.clash_of_warriors, fantasy_evil.dismantle_the_spears.

diff --git a/loop/items/map.viking_sandbox.md b/loop/items/map.viking_sandbox.md
@@ -1,18 +1,22 @@
 # map.viking_sandbox
 Status: open   Audited: 562 (AUDIT x2)   Done: -
 ## Verdicts
-a FAIL (564: struck 1): 3. Great gate absent in map_viking_sandbox_top — TABS: carved ice gate hung with chains (ref: reference/maps/wiki/viking_sandbox.png) 4. Sky in map_viking_sandbox_ground is warm beige haze — TABS: cyan mist with snow (ref: reference/maps/wiki/viking_sandbox.png) 5. Island in map_viking_sandbox_island is a navy slab with stalactites — TABS: white ice chunk with crystal shards (ref: reference/maps/winter_viking_sandbox.png)
+a FAIL (566: struck 4): 3. Great gate absent in map_viking_sandbox_top — TABS: carved ice gate hung with chains (ref: reference/maps/wiki/viking_sandbox.png) 5. Island in map_viking_sandbox_island is a navy slab with stalactites — TABS: white ice chunk with crystal shards (ref: reference/maps/winter_viking_sandbox.png)
 b FAIL (565: struck 4): 1. Outline in map_viking_sandbox_top is a rounded rectangle — TABS: circular arena bowl (ref: reference/maps/winter_viking_sandbox.png) 3. Gate on the left side absent in map_viking_sandbox_top — TABS: gate at left (ref: card Overview)
-c PASS (565 judge)
+c PASS (566 judge)
+
 ## Ranked gaps
-1. [S] a — blocker 4: cold sky: cyan-white clear colour and fog, drifting snow (save and restore in dispose)
+1. [S] a — blocker 3: monolithic left-hand portal with chain swags — ref: wiki/viking_sandbox.png — ours: map_viking_sandbox_top.png
 2. [S] b — blocker 3: gap in the ice wall on the left (-x) with a carved ice gate: two tall pale-cyan pillars, a lintel, hanging chain links (iceWall)
 3. [S] a — blocker 5: white ice-chunk underside with crystal shards in place of islandUnder/Shelf/Cliff
+
 ## Attempts (iter | gap | criterion | verdict)
 563 | [S] own builder; tree ring -> closed three-tier ice-cliff wall, placement inside |x| <= 44 (632026ad) | a2 | APPROVE struck 2
 564 | [S] base junk (Challenge Bluffs_box/_cyl/_totem_top) removed with colliders (617a5f5a) | b4 | APPROVE struck monolith clause, b2 struck
 564 | [S] snow floor, lobed teal ice patches, white cracks, tufts/blades hidden (78fc3163) | a1 | APPROVE struck 1
 565 | [S] base field dressing (wallStone, boulder, hayBale, hill, stump, both pits) removed with colliders and hazards (6278850c) | b4 | APPROVE struck 4
+566 | [S] cyan sky and airborne snow (b2df5dd6) | a4 | APPROVE struck a4
+
 ## Rejected (last 4)
 ## Notes (max 3 lines)
 - Stage on it: pirate.arrows_and_arrow (x 29..36, |z| <= 10; keep its spots on open ice). Base zones reach x +-61: placementZones clipped to +-44.
